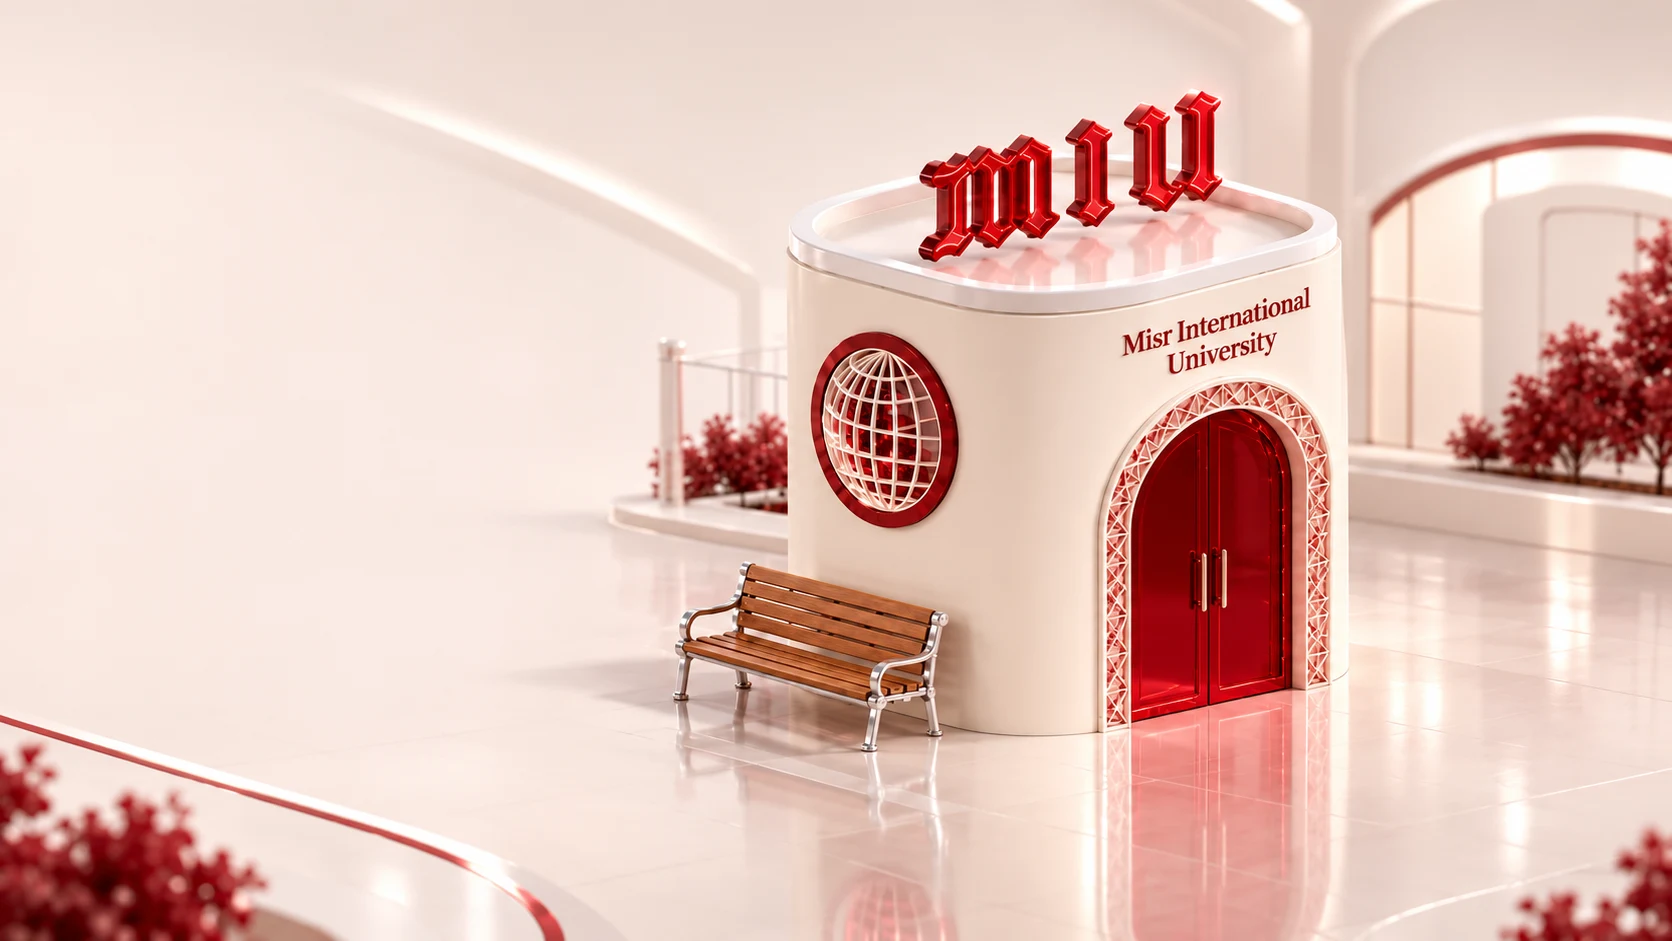
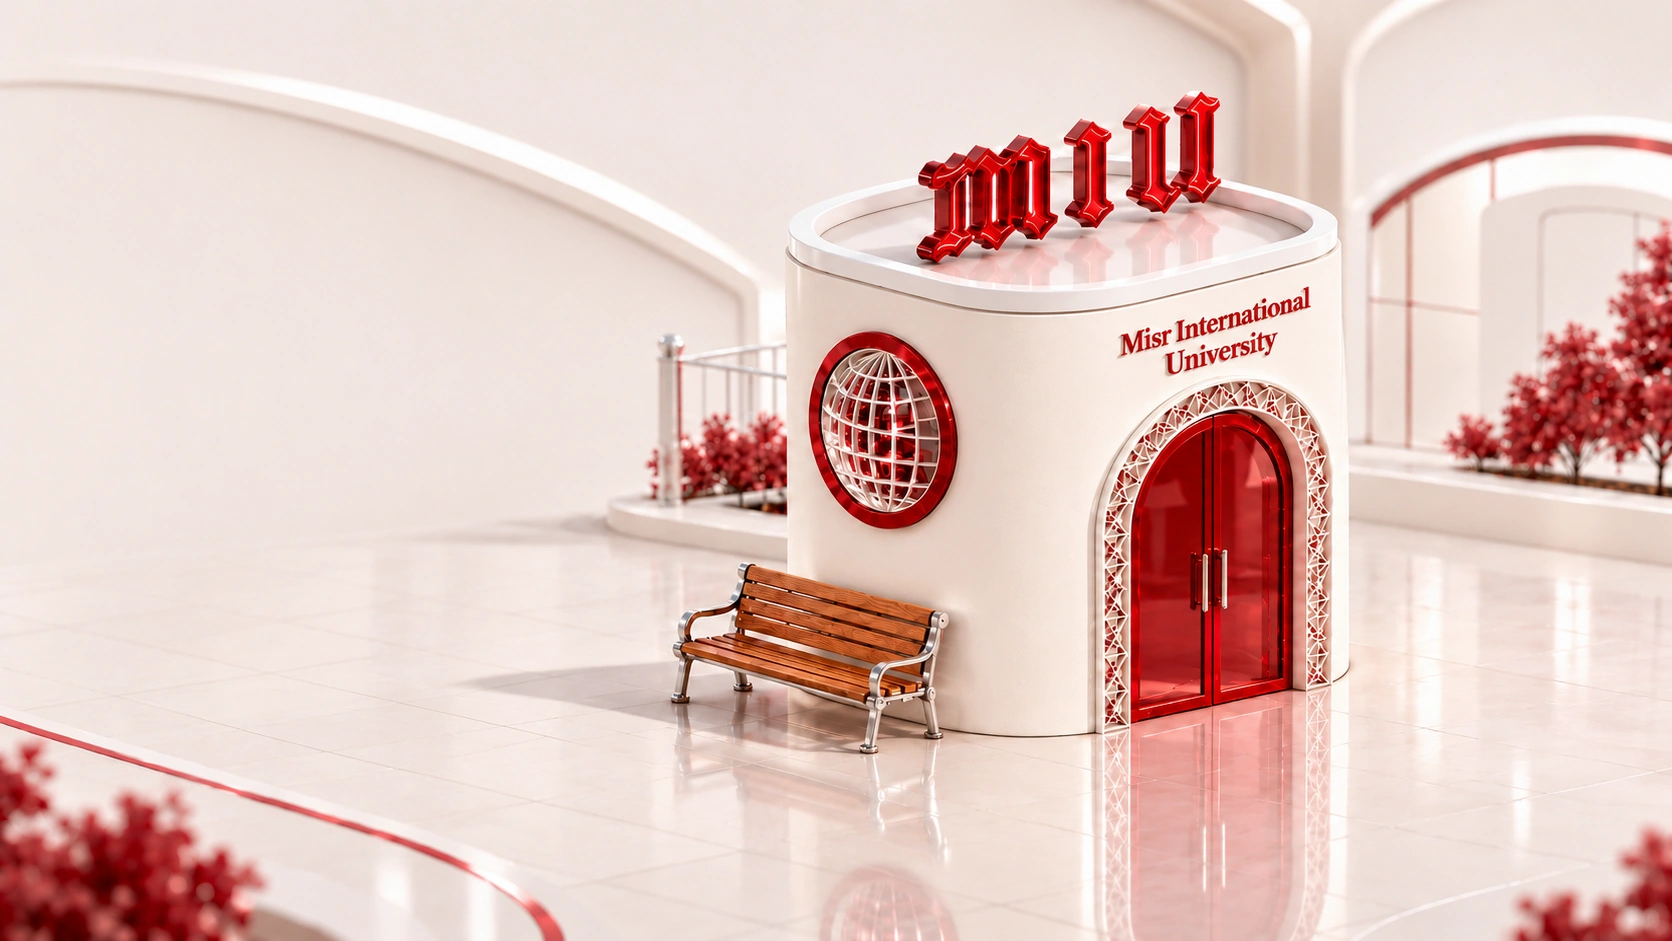
fix: beige hero-page

diff --git a/frontend/src/features/public/heroScene.css b/frontend/src/features/public/heroScene.css
@@ -1,6 +1,6 @@
 /* Reference-led MIU hero. Artwork stays separate from live interface content. */
 .landing-hero-story {
-  --hero-surface: #eee3e5;
+  --hero-surface: #faf6f0;
   --hero-ink: #300510;
   --hero-crimson: #b0001e;
   background: var(--hero-surface);
@@ -104,7 +104,7 @@
   gap: 10px;
   padding: 12px;
   color: var(--ink-primary);
-  background: #fff9fbc9;
+  background: #fff9f2c9;
   border-color: #ffffff;
   box-shadow:
     0 12px 30px #7b20371a,
@@ -137,7 +137,7 @@
   padding: 12px 23px;
   font-size: 12px;
   border-color: #a51535;
-  background: #fff5f770;
+  background: #fff9f270;
   color: var(--hero-crimson);
 }
 .landing .landing-hero .landing-pathways .primary,
@@ -184,7 +184,7 @@
   position: absolute;
   inset: 0;
   z-index: 1;
-  background: linear-gradient(90deg, #eee3e570, #eee3e51a 35%, transparent 52%);
+  background: linear-gradient(90deg, #faf6f070, #faf6f01a 35%, transparent 52%);
 }
 .landing-scene {
   display: block;
@@ -212,7 +212,7 @@
   overflow: visible;
 }
 .miu-orbit {
-  stroke: #fff4f6;
+  stroke: #fff7ee;
   stroke-width: 2;
   opacity: 0.8;
 }
@@ -230,7 +230,7 @@
   padding: 15px;
   border: 1px solid #ffffffea;
   border-radius: 13px;
-  background: linear-gradient(135deg, #ffffffeb, #fff5f7b0);
+  background: linear-gradient(135deg, #ffffffeb, #fff9f2b0);
   box-shadow:
     0 14px 30px -12px #6b293d33,
     inset 0 0 0 1px #9a27321c;
@@ -337,7 +337,7 @@
   padding: 8px 12px;
   border: 1px solid #fff;
   border-radius: 99px;
-  background: #fff3f5ed;
+  background: #fff7f2ed;
   box-shadow: 0 4px 16px #a70d2920;
   color: #970c2a;
   font-size: 9px;
@@ -381,7 +381,7 @@
   justify-items: start;
   gap: 7px;
   padding: 13px;
-  color: #faeef1;
+  color: #f9eee6;
   background: #80132f;
 }
 .miu-portfolio > svg {
@@ -623,7 +623,7 @@
 @media (prefers-reduced-transparency: reduce) {
   .miu-scene-card,
   .landing .landing-hero .landing-search {
-    background: #fff7f9;
+    background: #fffaf5;
     backdrop-filter: none;
   }
 }
@@ -736,10 +736,10 @@
   }
   .landing-hero-media::after {
     background: linear-gradient(
-      #eee3e5 0%,
-      #eee3e500 18%,
-      #eee3e500 87%,
-      #eee3e5 100%
+      #faf6f0 0%,
+      #faf6f000 18%,
+      #faf6f000 87%,
+      #faf6f0 100%
     );
   }
   .miu-scene-overlay {

diff --git a/frontend/src/features/public/homepageTheme.css b/frontend/src/features/public/homepageTheme.css
@@ -32,7 +32,7 @@
   padding: 4px 10px;
   border: 1px solid #ffffffbd;
   border-radius: 999px;
-  background: #fff7f9ed;
+  background: #fffaf5ed;
   box-shadow:
     inset 0 1px 3px #ffffff,
     0 4px 20px #ffffff75,
@@ -60,7 +60,7 @@
   border: 1px solid #ffffff9c;
   border-radius: 999px;
   padding: 10px 14px;
-  background: #fff7f9ed;
+  background: #fffaf5ed;
   box-shadow: inset 0 1px 2px #ffffffa6;
   font-size: 12px;
   text-decoration: none;
@@ -77,7 +77,7 @@
   min-height: 42px;
   min-width: 42px;
   border-color: #ffffff9c;
-  background: #fff7f9ed;
+  background: #fffaf5ed;
   box-shadow: inset 0 1px 2px #ffffffa6;
 }
 .homepage-theme .public-sign-up {
@@ -110,7 +110,7 @@
     :is(.public-preferences, .public-account-menu)
     > .disclosure-trigger,
   .homepage-theme .public-mobile-menu {
-    background: linear-gradient(135deg, #ffffff55, #fff8fa14);
+    background: linear-gradient(135deg, #ffffff55, #fff9f214);
     -webkit-backdrop-filter: blur(10px) saturate(110%);
     backdrop-filter: blur(10px) saturate(110%);
   }

diff --git a/frontend/src/tests/routeRendering.test.js b/frontend/src/tests/routeRendering.test.js
@@ -198,7 +198,7 @@ test("landing route renders Figma sections, safe discovery and existing auth nav
     assert.match(html, /role="search"/);
     assert.match(html, /class="landing-hero-media" aria-hidden="true"/);
     assert.match(html, /class="landing-scene" viewBox="0 0 1672 941"/);
-    assert.match(html, /miu-reference-rose\.webp/);
+    assert.match(html, /miu-reference-ivory\.webp/);
     assert.match(html, /class="landing-scene-doors"/);
     for (const kind of ["project", "profile", "service", "earnings"]) {
       assert.match(html, new RegExp('miu-scene-card miu-scene-' + kind));

diff --git a/frontend/src/features/public/HeroScene.jsx b/frontend/src/features/public/HeroScene.jsx
@@ -9,7 +9,7 @@ import {
 } from "lucide-react";
 import { useLanguage } from "../../i18n/LanguageContext.js";
 import { formatEGP } from "../../utils/formatEGP.js";
-import scene from "../../assets/hero/miu-reference-rose.webp";
+import scene from "../../assets/hero/miu-reference-ivory.webp";
 import "./heroScene.css";
 
 // Coordinates of the doorway in the 1672 × 941 background plate.

diff --git a/docs/06-MODULES/LANDING_PAGE.md b/docs/06-MODULES/LANDING_PAGE.md
@@ -229,3 +229,8 @@ Homepage-only CSS now separates the unchanged brand from a central pill-shaped g
 Top-gap correction — 12 November 2026: following the user's report of empty space above the artwork, the SVG uses `xMidYMin meet`. The complete scene is aligned to the top of its hero viewport instead of vertically centered. Image proportions and crop-free fitting are preserved.
 
 Validation for the reference palette/header update: production build, lint and 14 targeted route/theme regression tests passed. The final top-alignment follow-up changes only the SVG fitting attribute. Full browser visual acceptance remains pending.
+
+
+Beige restoration — 12 November 2026: the latest user request restores the supplied warm beige image. The active hero imports the retained `miu-reference-ivory.webp` directly, with no color-grading filter. The hero backdrop/edge fades use `#faf6f0`, and glass surfaces return to warm ivory tints. The current navbar structure, image fitting, door implementation and scroll timeline are preserved as found at the start of this color-only update. This supersedes the rose palette instructions above.
+
+Latest artwork replacement — 12 November 2026: `miu-reference-ivory.webp` now contains the user-selected lighter off-white version with restored architectural contrast and a corrected red glass door arch. The optimized WebP retains the original 1672 × 941 dimensions and existing SVG image/door alignment. This is a decorative asset replacement for P-01/FR-V01; navigation, roles and interactions are unchanged.

diff --git a/docs/03-DESIGN/DESIGN_SYSTEM.md b/docs/03-DESIGN/DESIGN_SYSTEM.md
@@ -340,3 +340,6 @@ The subsequent 12 November user reference corrects the hero palette to neutral r
 
 
 Latest 12 November refinement: the reference-derived rose image now supplies the hero colors directly; the temporary SVG grading filter is removed. The homepage header adopts separate brand, central glass navigation pill and rounded utility/account controls, using 10px backdrop blur, translucent white rims and an opaque reduced-transparency fallback. All existing navbar labels, destinations and behavior are preserved. The earlier full-width glass navbar shape is superseded on P-01.
+
+
+Latest user color choice — 12 November 2026: restore the original beige/ivory hero plate and `#faf6f0` backdrop, with warm ivory glass tints. Retain the existing separated glass navbar shape and its complete navigation content. This supersedes the temporary rose-white hero palette.
